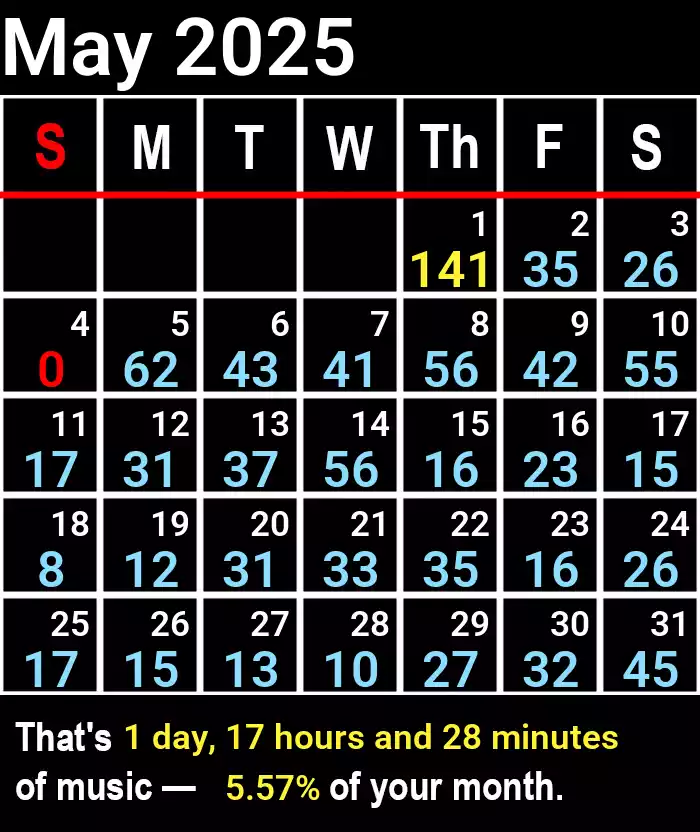
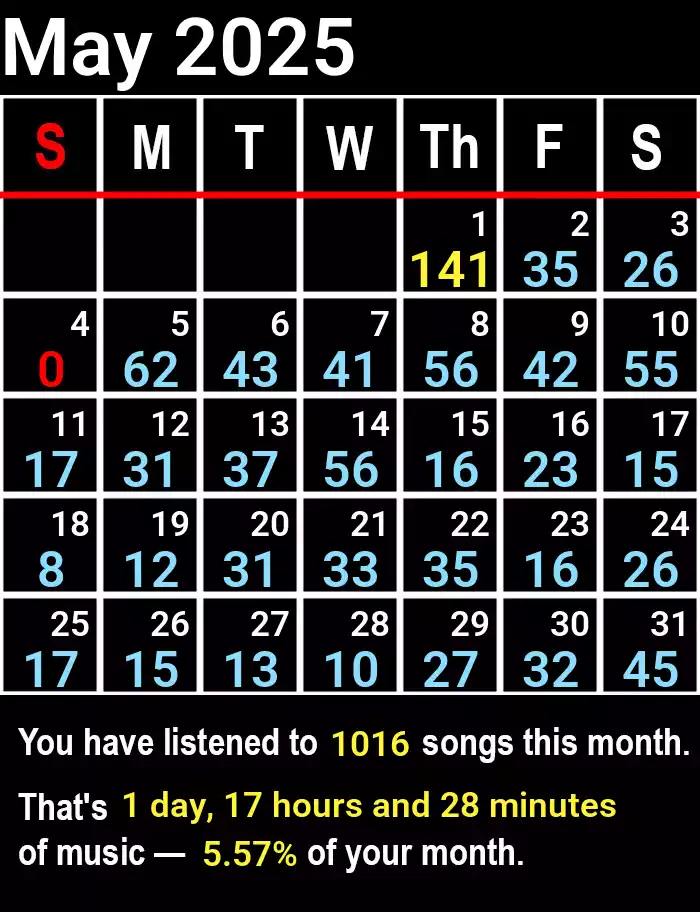
v3.1: updated calendar template

Changed region(s): [[0.0, 0.0, 1.0, 0.9688], [0.33, 0.0, 0.36, 0.0312]]

diff --git a/utils/lastfm.py b/utils/lastfm.py
@@ -274,9 +274,18 @@ def buildCalendarGrid(start, end):
 
 
 def buildCalendar(mLabel: str, timeSpent: str,percentage:str, grid: list):
+    def textAlign(textContent:dict,align:str):
+        bbox = draw.textbbox((0, 0), **textContent)
+        if align == "left":
+            return bbox[2] - bbox[0]
+        elif align == "center":
+            return (bbox[2] - bbox[0]) // 2
+        
+        
     CLR_YELLOW = "#fff435"
     CLR_BLUE = "#8cdcfe"
     CLR_RED = "#ff0100"
+    total = 0
 
     BG = Image.open(IMG_CALENDAR_TEMP)
     draw = ImageDraw.Draw(BG)
@@ -303,19 +312,18 @@ def buildCalendar(mLabel: str, timeSpent: str,percentage:str, grid: list):
             info = weekday
             if not info:
                 continue
-            day = str(info["d"])
-            count = str(info["c"])
+            day = info["d"]
+            count = info["c"]
             isMax = info["m"]
+            total+=count
 
-            textContent = {"text": day, "font": dayFont}
-            bbox = draw.textbbox((0, 0), **textContent)
-            aligned_x = day_x_init + day_x_skip - (bbox[2] - bbox[0])
+            textContent = {"text": str(day), "font": dayFont}
+            aligned_x = day_x_init + day_x_skip - textAlign(textContent,"left")
             aligned_y = day_y_init + day_y_skip
             draw.text((aligned_x, aligned_y), **textContent)
 
-            textContent = {"text": count, "font": countFont}
-            bbox = draw.textbbox((0, 0), **textContent)
-            aligned_x = count_x_init + count_x_skip - ((bbox[2] - bbox[0]) // 2)
+            textContent = {"text": str(count), "font": countFont}
+            aligned_x = count_x_init + count_x_skip - textAlign(textContent,"center")
             aligned_y = count_y_init + count_y_skip
             fill = CLR_BLUE if int(count) else CLR_RED
             fill = CLR_YELLOW if isMax else fill
@@ -323,8 +331,19 @@ def buildCalendar(mLabel: str, timeSpent: str,percentage:str, grid: list):
 
     monthLabelFont = ImageFont.truetype(FONT_ROBOTO_SEMI_BOLD, 80)
     draw.text((0, 0), text=mLabel, font=monthLabelFont)
-    draw.text((123, 716), text=timeSpent, font=dayFont, fill=CLR_YELLOW)
-    draw.text((225, 767), text=percentage, font=dayFont, fill=CLR_YELLOW)
+    
+    # Total count.
+    textContent = {"text": str(total), "font": dayFont}
+    x = 370 - textAlign(textContent,"center")
+    draw.text((x, 723),**textContent, fill=CLR_YELLOW)
+    
+    # Time spent.
+    draw.text((121, 784), text=timeSpent, font=dayFont, fill=CLR_YELLOW)
+    
+    # Percentage.
+    textContent = {"text": percentage, "font": dayFont}
+    x = 250 - textAlign(textContent,"center")
+    draw.text((x, 833), **textContent, fill=CLR_YELLOW)
 
     BG.save(IMG_CALENDAR, optimize=True)
     print("LOG: Calendar built")
@@ -337,7 +356,7 @@ def buildMonthlyCalendar():
     mName, mDays = monthLabel(start, end)
     timeSpent = getDurationSpent(start, end)
     tsLabel,percentage = timeSpentLabel(end, timeSpent)
-
+    
     grid = buildCalendarGrid(start, end)
     buildCalendar(mName, tsLabel,percentage ,grid)
     return IMG_CALENDAR
